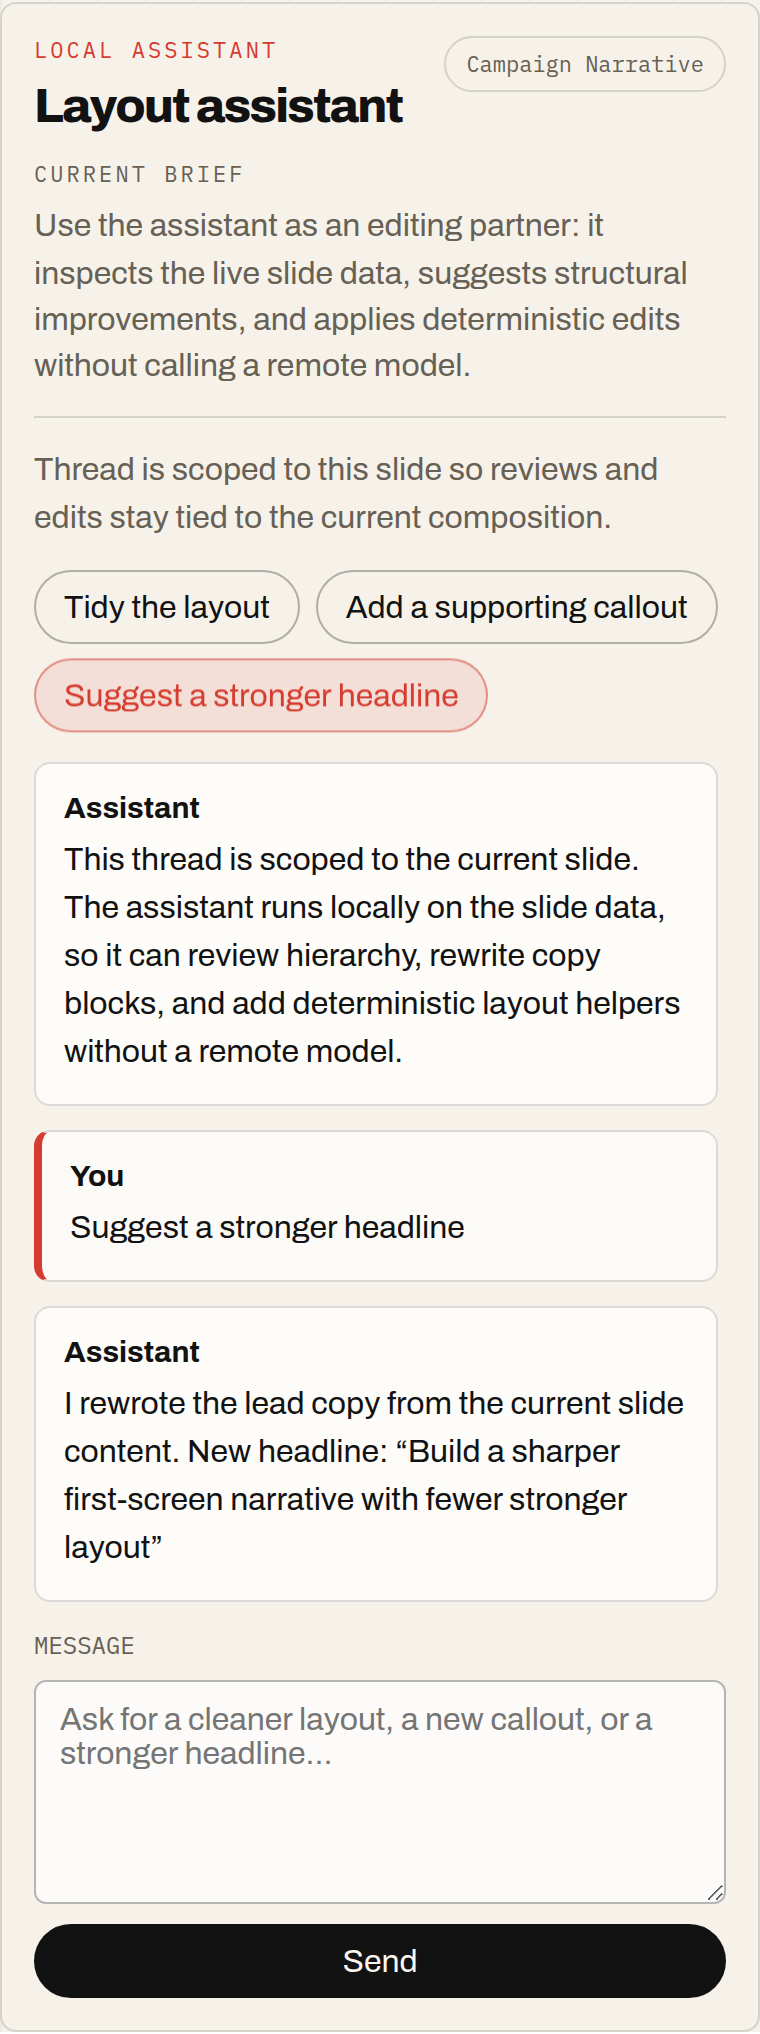
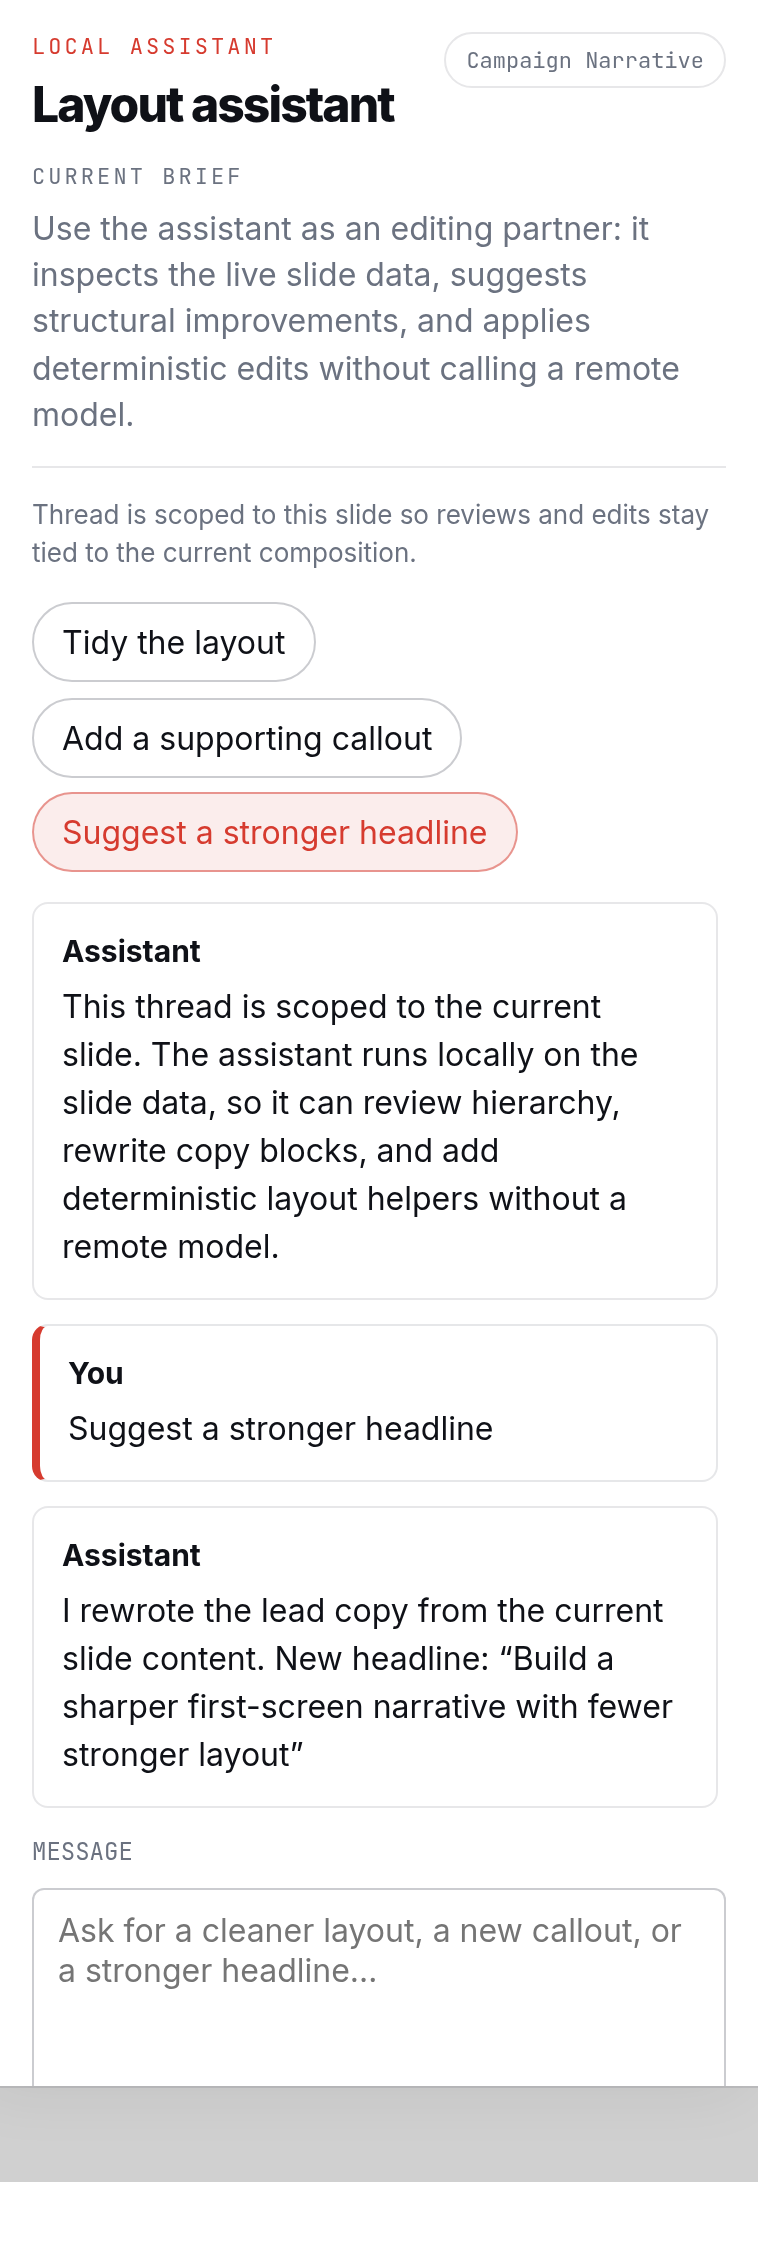
Refresh README screenshots

diff --git a/README.md b/README.md
@@ -19,6 +19,8 @@ I structured it like a production-style React application rather than a one-file
 
 ## Preview
 
+These preview assets reflect the current routed editor shell and can be regenerated with `scripts/capture-readme-screenshots.mjs`.
+
 ### Full editor overview
 
 ![CanvasCraft Editor overview](docs/screenshots/overview.png)
@@ -119,6 +121,12 @@ For validation:
 
 ```bash
 npm run check
+```
+
+To refresh the README screenshots against a running local editor:
+
+```bash
+CANVASCRAFT_EDITOR_URL=http://127.0.0.1:4177/#/edit/slide-1 node ./scripts/capture-readme-screenshots.mjs
 ```
 
 ## Notes on implementation
